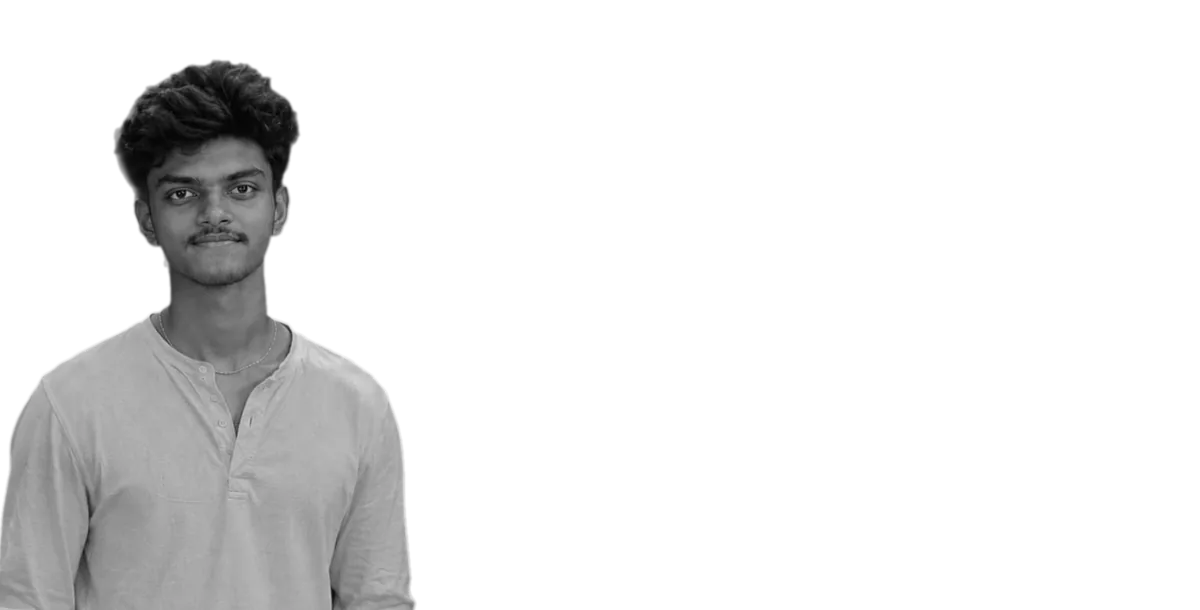
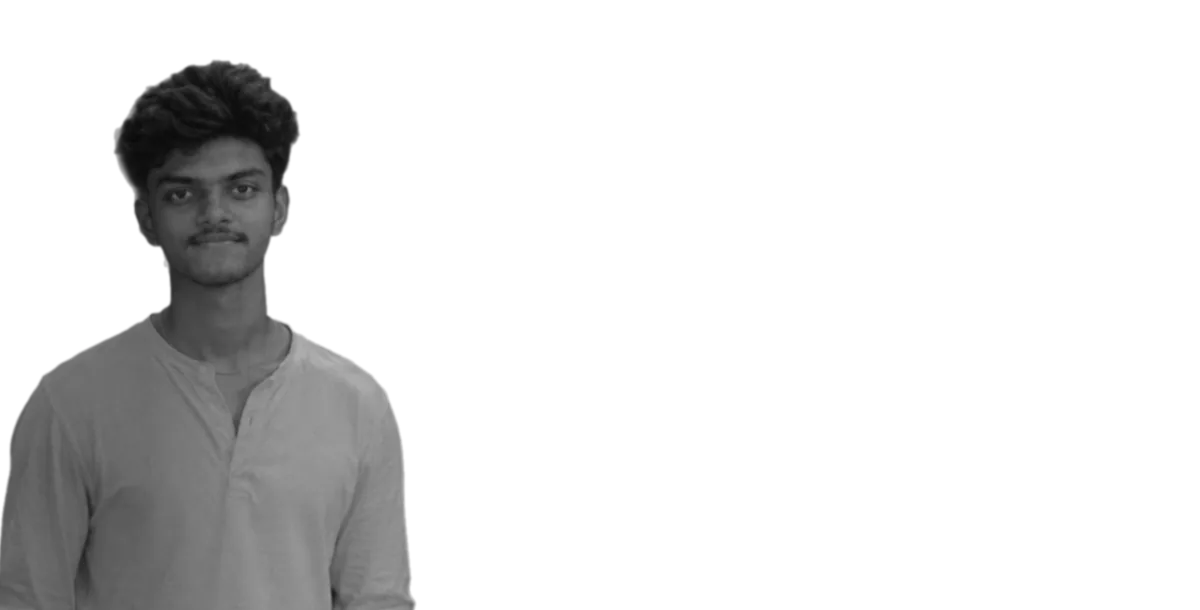
Give Shyan's photo plainer, uneven light so it looks as casual as the others

Changed region(s): [[0.0, 0.218, 0.3392, 1.0], [0.1233, 0.1246, 0.1542, 0.1557]]

diff --git a/scripts/team_photo.py b/scripts/team_photo.py
@@ -14,7 +14,7 @@ The originals in assets/team are only read, never changed.
 import math
 from pathlib import Path
 
-from PIL import Image, ImageFilter, ImageOps
+from PIL import Image, ImageChops, ImageFilter, ImageOps
 import pillow_heif
 from rembg import new_session, remove
 
@@ -29,9 +29,10 @@ DEEP = (29, 31, 56)
 # the chin and the face centre. Faces are scaled so eye-to-chin matches,
 # times scale where a face still reads smaller than the others.
 # x: face centre in the row; drop: how far the eyes sit below EYE_Y
-# (negative is higher).
+# (negative is higher); rough: a cleanly lit photo, given plainer, uneven
+# light so it looks as casual as the others.
 PEOPLE = {
-    "shyan": dict(file="shyan-3.jpg", eye=372, chin=498, cx=563, scale=1.0, x=330, drop=0),
+    "shyan": dict(file="shyan-3.jpg", eye=372, chin=498, cx=563, scale=1.0, x=330, drop=0, rough=True),
     "suhail": dict(file="suhail.heic", eye=1130, chin=1250, cx=650, scale=1.06, x=590, drop=-6),
     "sudhir": dict(file="sudhir.jpg", eye=890, chin=998, cx=846, scale=1.0, x=850, drop=0),
     "ajay": dict(file="ajay.heic", eye=1030, chin=1165, cx=1092, scale=1.0, x=1110, drop=4),
@@ -93,12 +94,27 @@ def stats(grey, alpha, box):
 S_CURVE = [round(255 * (0.5 + 0.5 * math.tanh(1.8 * (g / 255 - 0.5)) / math.tanh(0.9))) for g in range(256)]
 
 
-def to_grey(rgba, box, target=None):
+def roughen(grey, alpha, box):
+    """Plainer light: flatter and a little dimmer, light falling off across
+    the face from one side, and slightly soft, like an ordinary phone photo."""
+    mean, std = stats(grey, alpha, box)
+    grey = grey.point(lambda g: max(0, min(255, round(mean - 10 + (g - mean) * 0.78))))
+    # Light from the right: across the face the left side drops about a quarter.
+    left, right = box[0], box[2]
+    row = Image.new("L", (grey.width, 1))
+    row.putdata([round(255 * (0.74 + 0.26 * min(1, max(0, (x - left) / (right - left))))) for x in range(grey.width)])
+    grey = ImageChops.multiply(grey, row.resize(grey.size))
+    return grey.filter(ImageFilter.GaussianBlur(0.9))
+
+
+def to_grey(rgba, box, target=None, rough=False):
     """Black and white. With a target (mean, std), the face is graded to
     match it and polished: a touch of smoothing, the S-curve, then crisp
     detail. Without one, the photo is only turned grey."""
     grey = ImageOps.grayscale(rgba.convert("RGB"))
     alpha = rgba.getchannel("A")
+    if rough:
+        grey = roughen(grey, alpha, box)
     if target:
         mean, std = stats(grey, alpha, box)
         t_mean, t_std = target
@@ -113,10 +129,11 @@ def main():
     canvases = {name: layer(cut_out(p, session), p) for name, p in PEOPLE.items()}
     ref = canvases[REFERENCE]
     target = stats(ImageOps.grayscale(ref.convert("RGB")), ref.getchannel("A"), face_box(PEOPLE[REFERENCE]))
+    # The reference sets the grade before any roughening, so the others keep it.
     print("reference face", [round(v, 1) for v in target])
     layers = {}
     for name, p in PEOPLE.items():
-        layers[name] = to_grey(canvases[name], face_box(p), None if name == REFERENCE else target)
+        layers[name] = to_grey(canvases[name], face_box(p), None if name == REFERENCE else target, p.get("rough", False))
         layers[name].save(OUT / f"team-{name}.webp", quality=82, method=6)
         print("layer", name)
     group = Image.new("RGBA", layers[REFERENCE].size, DEEP + (255,))
